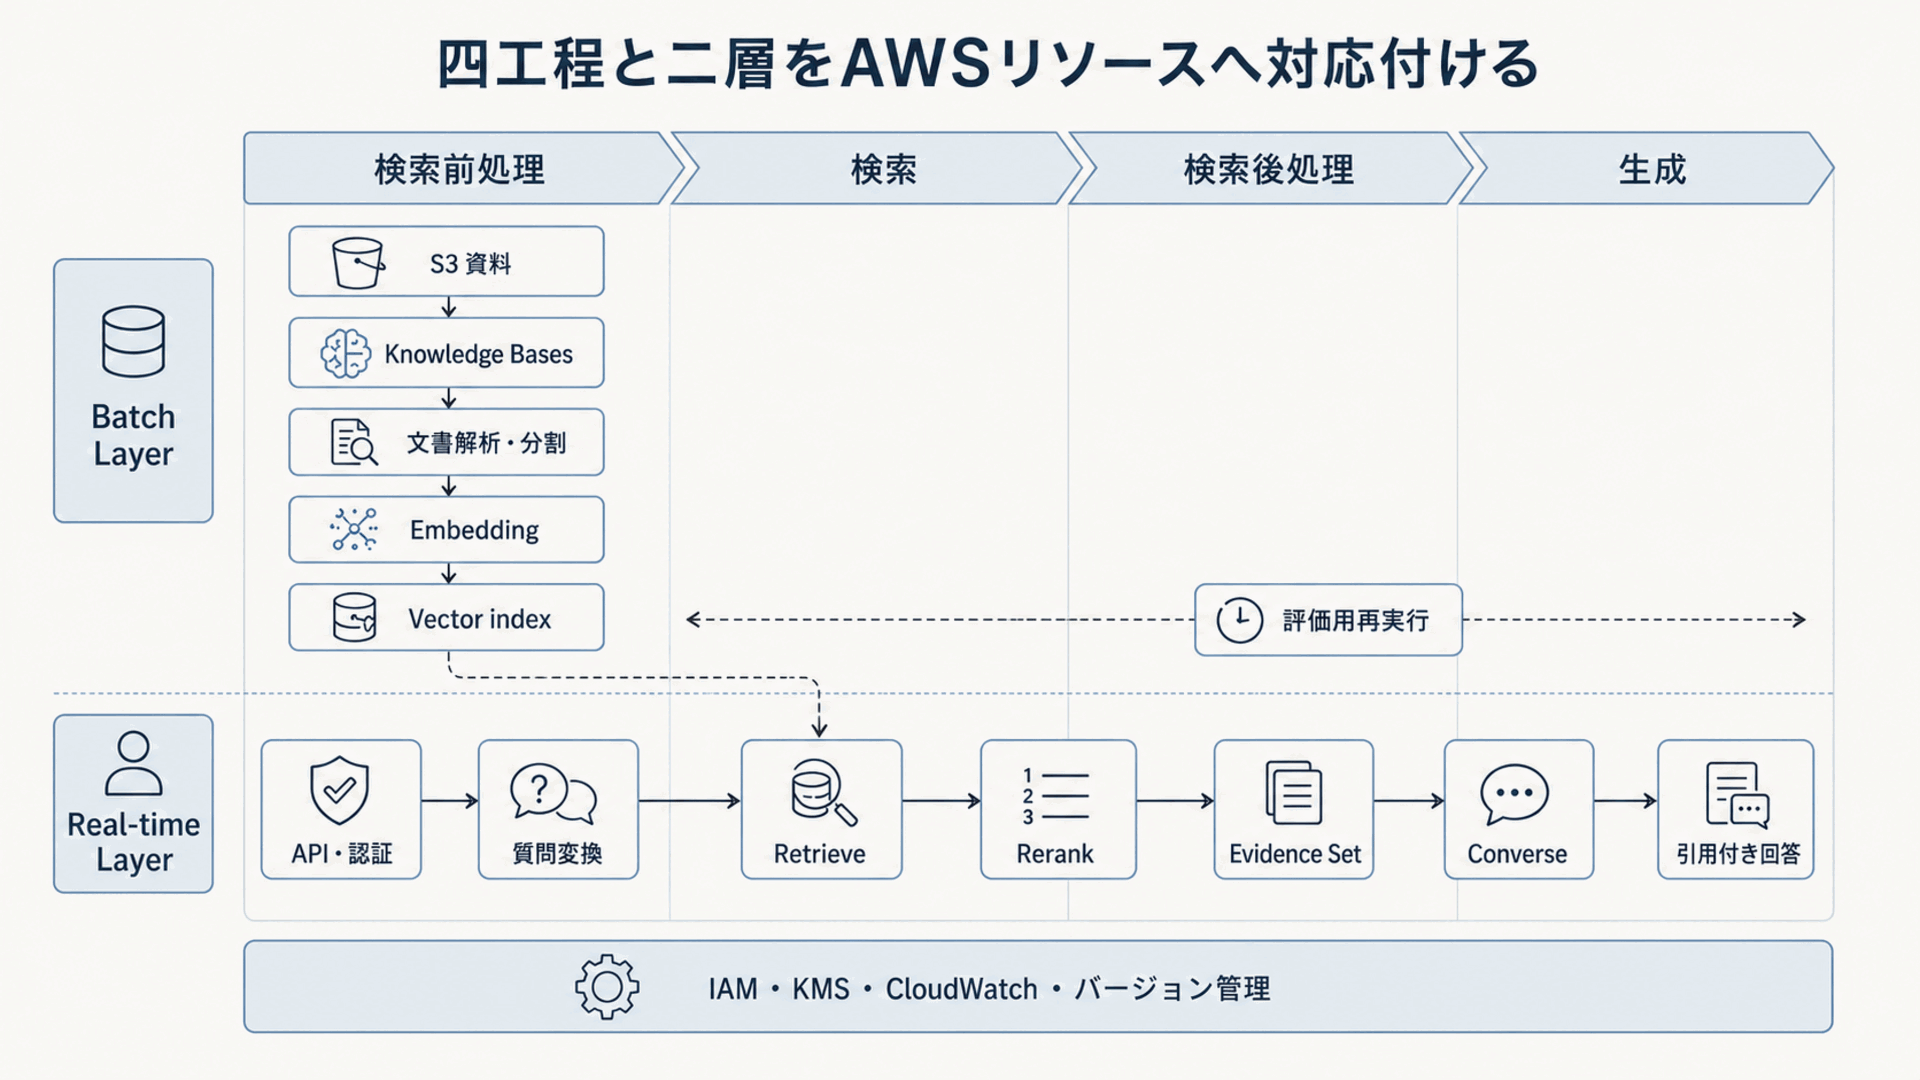
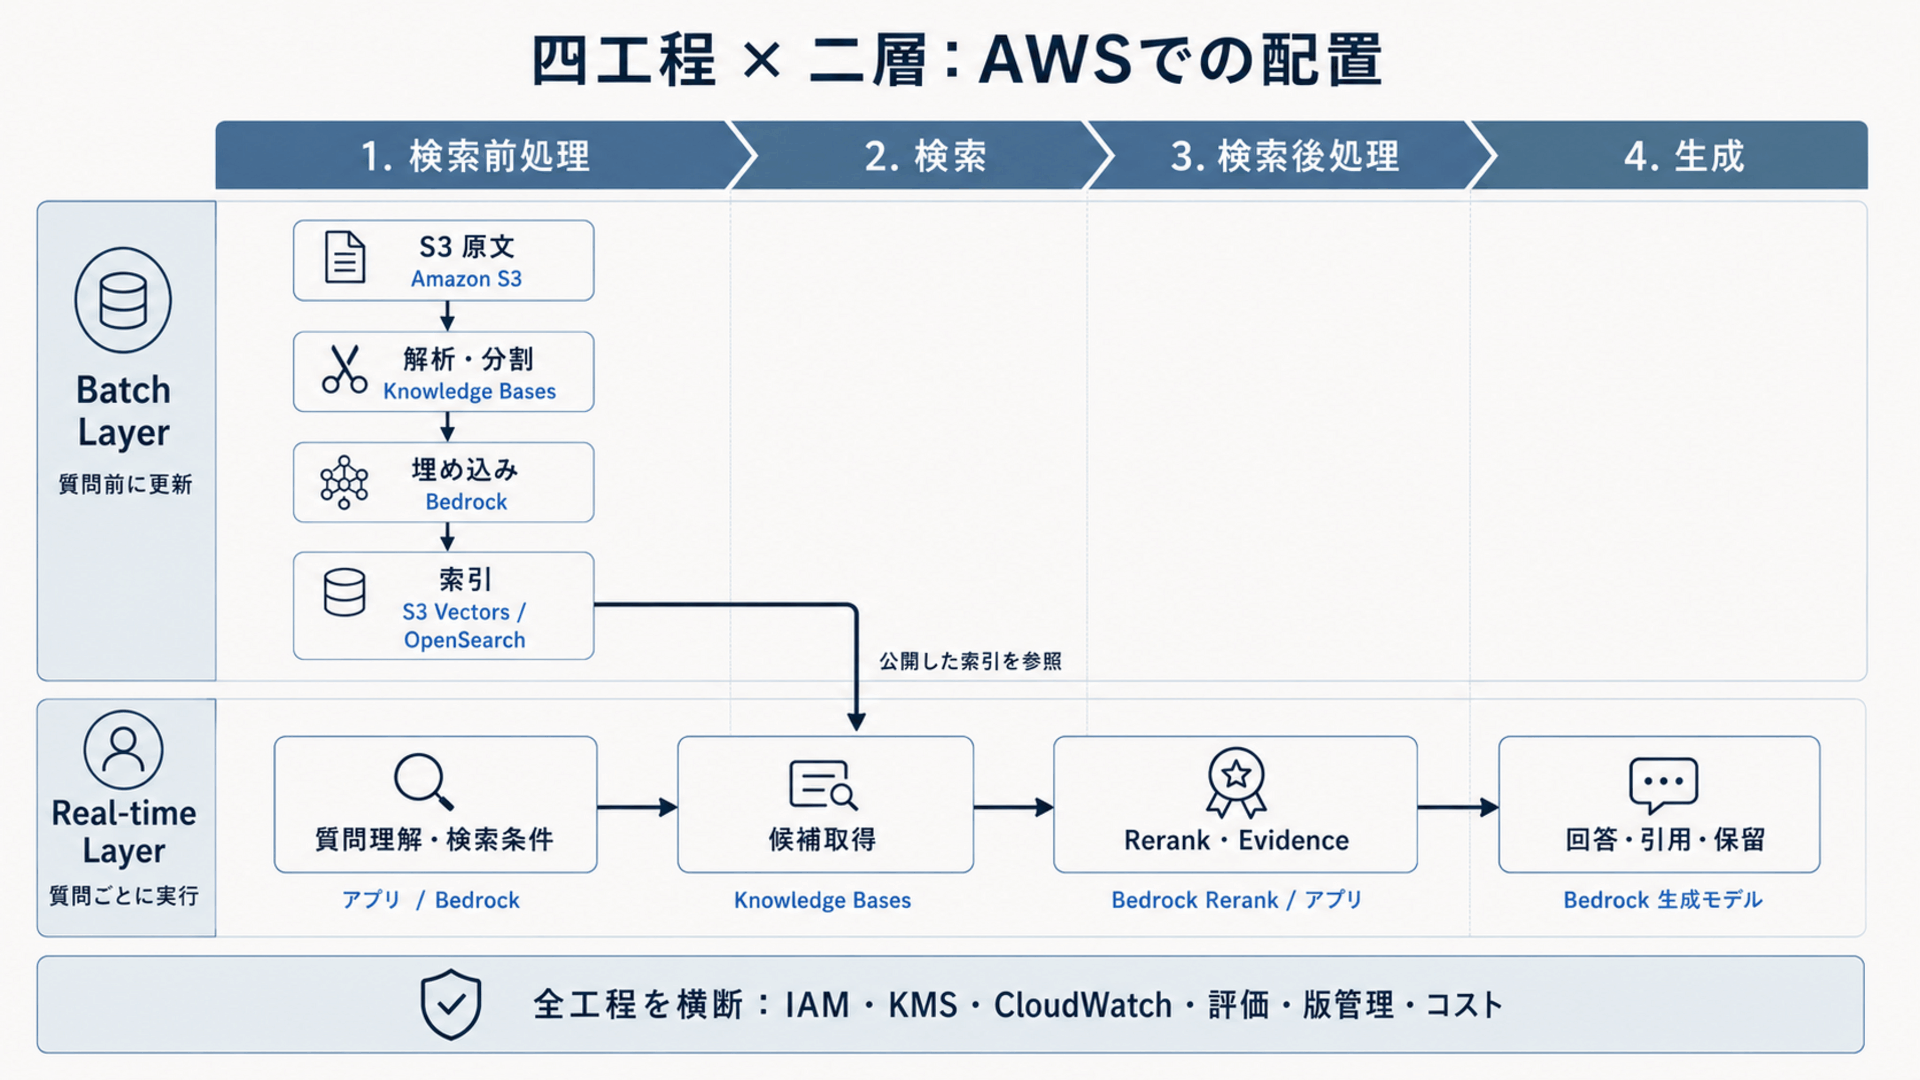
docs: simplify chapter 10 overview visual

Changed region(s): [[0.0, 0.0306, 1.0, 0.9778], [0.5938, 0.55, 0.75, 0.6111], [0.9062, 0.55, 0.9375, 0.5806]]

diff --git a/assets/image-prompts/44-aws-four-stages-two-layers.md b/assets/image-prompts/44-aws-four-stages-two-layers.md
@@ -1,14 +1,19 @@
-# 図44: AWS RAGの四工程と二層
+# 図44: 四工程・二層とAWSの配置
 
 - 出力先: `assets/images/v4/44-aws-four-stages-two-layers.png`
-- 使用箇所: `docs/10.AWSで設計・実装する/10.1.構成方式を選ぶ.md`
-- 挿入位置: 「10.1.1. 四工程と二層をAWSリソースへ対応付ける」の対応表の直後
+- 使用箇所: `docs/10.AWSで設計・実装する/10.1.四工程・二層をAWSへ対応づける.md`
+- 挿入位置: 表10-1の直後
 - 代替テキスト: 四工程と二層にAWSサービスとリソースを対応付けた構成図
+- 生成方法: image-gen 2.0
 
 ## 生成プロンプト
 
-日本語の技術書に掲載する、AWS上のAdvanced RAGアーキテクチャの横長インフォグラフィック。16:9、白背景、濃紺とAWSオレンジをアクセントにした端正なフラットデザイン。左から右へ「検索前処理」「検索」「検索後処理」「生成」の四工程を大きな矢印で接続し、上下を「Batch Layer」と「Real-time Layer」の二層に分ける。
+日本語の技術書に掲載する16:9の横長インフォグラフィック。背景はオフホワイト`#F7F6F1`、文字はディープネイビー`#2B3A4A`、アクセントはくすんだ青`#5E7E96`、補助図形は淡いブルーグレーだけを使う。フラットで端正な編集デザインとし、十分な安全余白を取る。
 
-Batch Layerには、Amazon S3、Bedrock Knowledge Basesのdata source、parser、chunking、embedding、S3 VectorsまたはOpenSearch Serverless、評価データと回帰評価を配置する。Real-time Layerには、query変換・metadata filter、RetrieveまたはAgenticRetrieveStream、Bedrock Rerank、LambdaまたはStep FunctionsによるEvidence Set、ConverseとGuardrails、citation検査を配置する。二層を横断する細い帯としてIAM、KMS、CloudWatch、traceを置く。
+上部を「1. 検索前処理」「2. 検索」「3. 検索後処理」「4. 生成」の四列、本文を「Batch Layer／質問前に更新」「Real-time Layer／質問ごとに実行」の二行に分ける。
 
-各要素はAWS公式アイコンの模倣ではなく、サービス名が読める簡潔なカードと抽象アイコンで表現する。工程と層の境界、データの流れ、Batchで作成したindexをReal-time検索が利用する関係が一目で分かること。過度な装飾、立体表現、写真、人物、余分な説明文は不要。日本語ラベルを正確に、書籍本文と同じ用語で表示する。
+Batch Layerは検索前処理列の中だけに置き、「S3 原文／Amazon S3」→「解析・分割／Knowledge Bases」→「埋め込み／Bedrock」→「索引／S3 Vectors / OpenSearch」を縦に接続する。他の三列にはBatch処理を置かない。「索引」からReal-time Layerの「候補取得」へだけ矢印を引き、「公開した索引を参照」と表示する。
+
+Real-time Layerは四列を左から右へ、「質問理解・検索条件／アプリ / Bedrock」→「候補取得／Knowledge Bases」→「Rerank・Evidence／Bedrock Rerank / アプリ」→「回答・引用・保留／Bedrock 生成モデル」と接続する。最下部には全幅の帯として「全工程を横断：IAM・KMS・CloudWatch・評価・版管理・コスト」を置く。
+
+すべてのカードを正しい列と層の内側へ収め、矢印を文字と交差させない。日本語はNoto Sans JP相当で正確に表示する。写真、人物、立体表現、強い影、グラデーション、原色、装飾用の図形、AWS公式ロゴの模倣、余分な説明文は使わない。

diff --git a/docs/10.AWSで設計・実装する/10.1.四工程・二層をAWSへ対応づける.md b/docs/10.AWSで設計・実装する/10.1.四工程・二層をAWSへ対応づける.md
@@ -2,28 +2,15 @@
 
 AWSリソースを選ぶ前に、質問より前に作るものと、質問ごとに動かすものを分けます。四工程と二層は一対一ではありません。検索前処理のうち、文書解析、Chunking、Embedding、索引作成はBatch Layerに置き、質問理解、質問変換、検索条件作成はReal-time Layerに置きます。検索、検索後処理、生成は主にReal-time Layerで動きます。
 
-| Layer | 工程 | 入力 | 主な処理 | 出力 | 主なAWS機能 |
-|---|---|---|---|---|---|
-| Batch Layer | 文書側の検索前処理 | 原文、Metadata | 収集、解析、Chunking、Embedding、索引作成 | 検索可能なChunkと索引 | Amazon S3、Bedrock Knowledge Bases、Bedrock Embedding Model、S3 Vectors、OpenSearch Serverless |
-| Real-time Layer | 質問側の検索前処理 | 質問、会話、認証済み利用者属性 | 質問理解、質問変換、検索条件作成 | Query、Filter、検索計画 | アプリケーション、Bedrock生成モデル、Managed KBのagentic retrieval |
-| Real-time Layer | 検索 | Query、Filter | Keyword、Vector、Hybrid、Metadata Filter | 根拠候補 | Knowledge Bases、S3 Vectors、OpenSearch Serverless |
-| Real-time Layer | 検索後処理 | 根拠候補 | Reranking、選別、根拠整形 | Evidence Set | Bedrock Rerank Model、アプリケーション実行基盤 |
-| Real-time Layer | 生成 | 質問、Evidence Set | 回答、引用、回答保留 | 根拠付き回答 | Bedrock生成モデル、Customer-managed KBのRetrieveAndGenerate、Converse |
-| 横断する管理面 | 全工程 | Identity、Key、設定版、Telemetry、評価データ | 認可、暗号化、監視、評価、版管理、費用配賦 | 監査可能な実行記録 | IAM、KMS、CloudWatch、CloudTrail、Guardrails、AgentCore Observability、AWS Budgets |
+| 区分 | 役割 | 主なAWS機能 |
+|---|---|---|
+| Batch Layer | 質問前に索引を作る | S3、Knowledge Bases、Bedrock Embedding、S3 Vectors・OpenSearch |
+| Real-time Layer | 質問ごとに根拠を探し、回答する | アプリ、Knowledge Bases、Bedrock Rerank・生成モデル |
+| 管理面 | 両層を安全に運用する | IAM、KMS、CloudWatch、AWS Budgets |
 
-**表10-1 四工程・二層とAWS機能の対応**
+**表10-1 二層と管理面の役割**
 
-```text
-                      検索前処理                  検索          検索後処理          生成
-Batch Layer       原文→解析→Chunk→Embedding→索引
-                  S3 / Knowledge Bases / Embedding / S3 Vectors・OpenSearch
-
-Real-time Layer   質問理解→Query・Filter ─────→候補取得──────→Rerank・Evidence──→回答・引用・保留
-                  Application / Bedrock       KB / Vector Store
-                                               Rerank / App       Bedrock Model
-
-横断する管理面     IAM・KMS・監視・評価・版管理・コスト管理を全区間へ適用
-```
+![四工程と二層にAWSサービスとリソースを対応付けた構成図](../../assets/images/v4/44-aws-four-stages-two-layers.png)
 
 **図10-1 四工程・二層とAWSサービスの全体対応**
 
